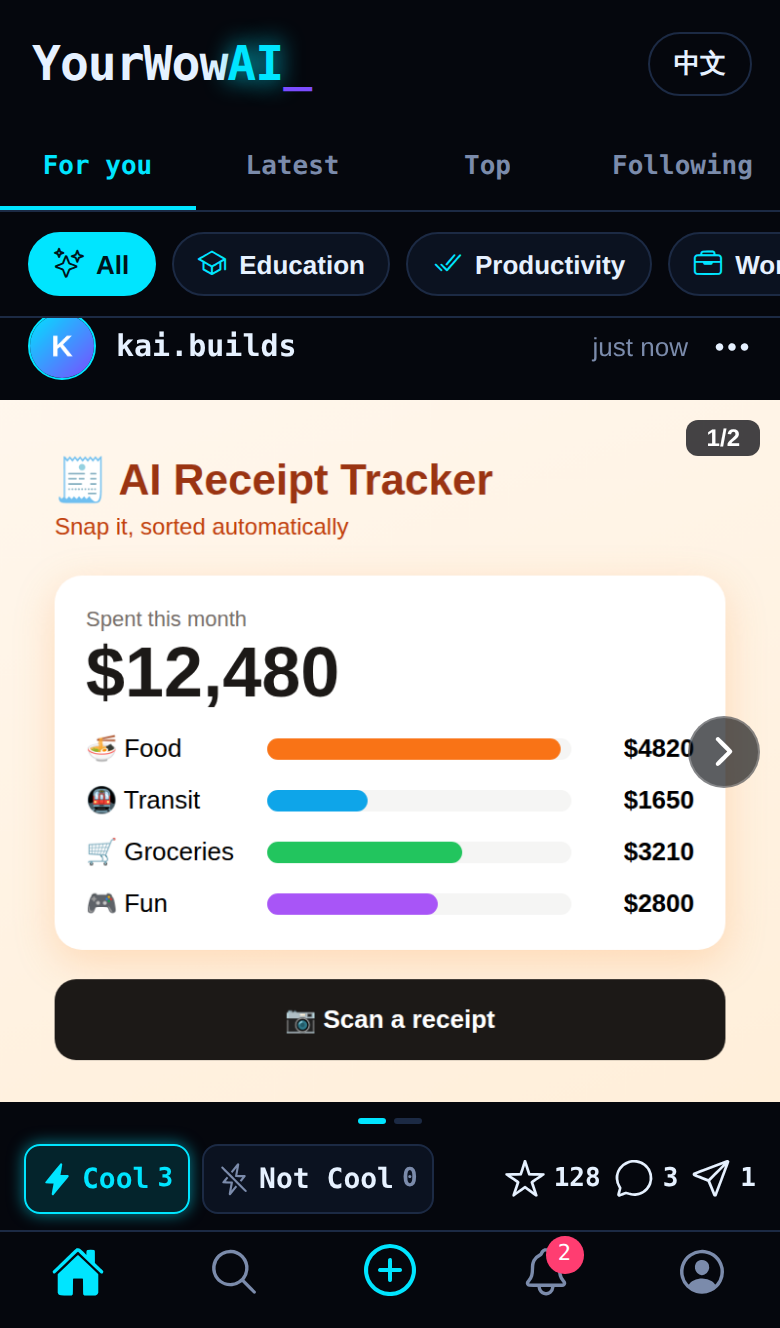
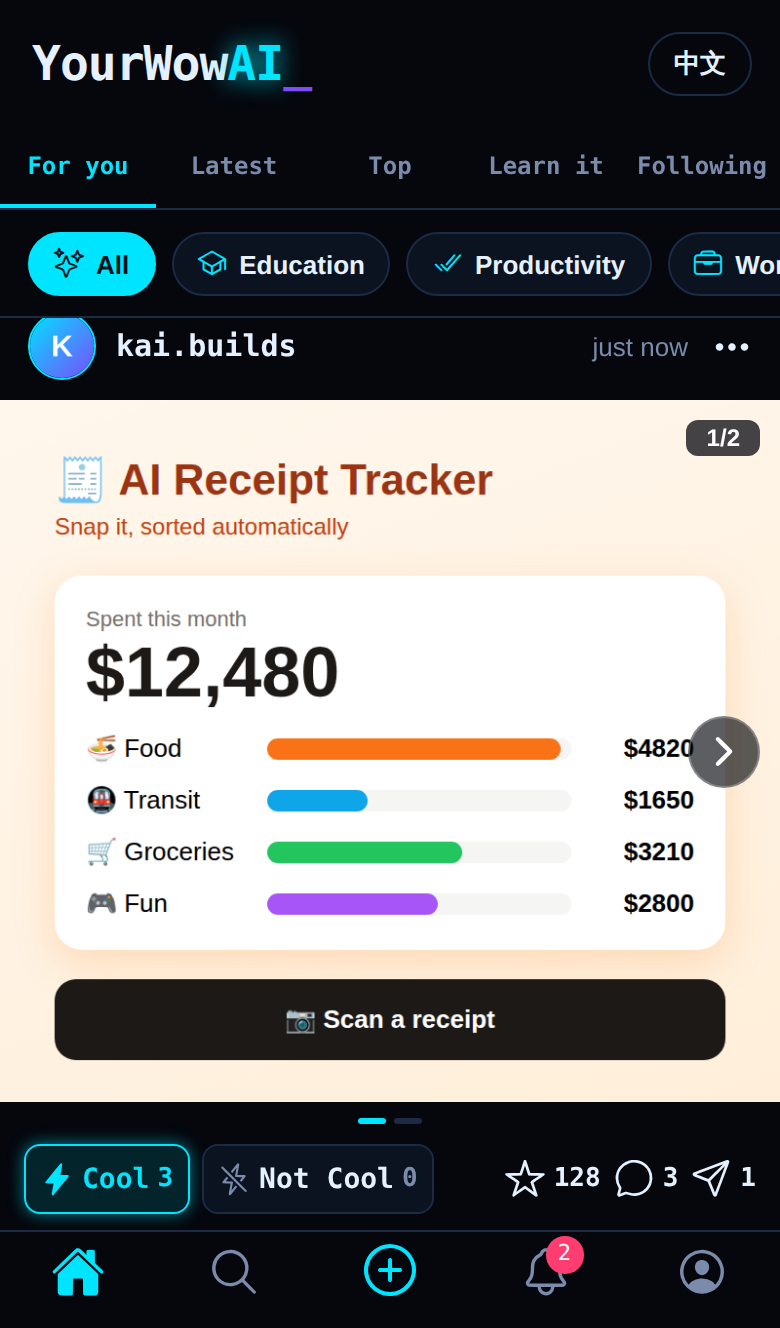
Show the Learn it tab in the feed screenshots
The hero and gallery feed screens now show all five home tabs,
including Learn it.

Claude-Session: https://claude.ai/code/session_01CvZTPupud6WvANmPo8zCjy

diff --git a/index.html b/index.html
@@ -62,7 +62,7 @@
       <svg class="sparkle" width="14" height="14" viewBox="0 0 24 24" aria-hidden="true" style="bottom: 36px; right: 34px;"><path d="M12 2l2.2 7.8L22 12l-7.8 2.2L12 22l-2.2-7.8L2 12l7.8-2.2z" fill="#7c4dff"></path></svg>
       <svg class="sparkle" width="10" height="10" viewBox="0 0 24 24" aria-hidden="true" style="top: 40%; right: 28px;"><circle cx="12" cy="12" r="6" fill="#ffffff" opacity="0.6"></circle></svg>
       <div class="phone">
-        <img src="assets/screens/en/feed.png?v=20261030" width="780" height="1328" alt="YourWowAI feed: an AI receipt tracker shared by a user, with Cool and Not Cool buttons">
+        <img src="assets/screens/en/feed.png?v=20261104" width="780" height="1328" alt="YourWowAI feed: an AI receipt tracker shared by a user, with Cool and Not Cool buttons">
       </div>
     </div>
   </div>
@@ -159,7 +159,7 @@
       <p>Real app screens. The app is available in English and Traditional Chinese.</p>
     </div>
     <div class="gallery" tabindex="0" aria-label="App screenshots, scroll sideways">
-      <figure><div class="phone"><img src="assets/screens/en/feed.png?v=20261030" width="780" height="1328" loading="lazy" alt="Feed with Cool and Not Cool buttons"></div><figcaption>Your work, shared</figcaption></figure>
+      <figure><div class="phone"><img src="assets/screens/en/feed.png?v=20261104" width="780" height="1328" loading="lazy" alt="Feed with Cool and Not Cool buttons"></div><figcaption>Your work, shared</figcaption></figure>
       <figure><div class="phone"><img src="assets/screens/en/post.png?v=20261030" width="780" height="1328" loading="lazy" alt="Post page with AI tool tags, AI tutor, Try it and Learn it buttons, GitHub stars and comments"></div><figcaption>Comments and feedback</figcaption></figure>
       <figure><div class="phone"><img src="assets/screens/en/learn.png?v=20261030" width="780" height="1328" loading="lazy" alt="Learn it page with a free preview video, a locked full tutorial that is free during beta, and the AI tutor"></div><figcaption>Learn how it was built</figcaption></figure>
       <figure><div class="phone"><img src="assets/screens/en/learn-tab.png?v=20261104" width="780" height="1328" loading="lazy" alt="Home screen on the Learn it tab, showing only posts that come with a tutorial, with category filters"></div><figcaption>Every post with a tutorial</figcaption></figure>

diff --git a/zh/index.html b/zh/index.html
@@ -67,7 +67,7 @@
       <svg class="sparkle" width="14" height="14" viewBox="0 0 24 24" aria-hidden="true" style="bottom: 36px; right: 34px;"><path d="M12 2l2.2 7.8L22 12l-7.8 2.2L12 22l-2.2-7.8L2 12l7.8-2.2z" fill="#7c4dff"></path></svg>
       <svg class="sparkle" width="10" height="10" viewBox="0 0 24 24" aria-hidden="true" style="top: 40%; right: 28px;"><circle cx="12" cy="12" r="6" fill="#ffffff" opacity="0.6"></circle></svg>
       <div class="phone">
-        <img src="../assets/screens/feed.png?v=20261030" width="780" height="1328" alt="YourWowAI 動態牆：阿凱分享的「AI 發票記帳」，下方有 Cool 和 Not Cool 按鈕">
+        <img src="../assets/screens/feed.png?v=20261104" width="780" height="1328" alt="YourWowAI 動態牆：阿凱分享的「AI 發票記帳」，下方有 Cool 和 Not Cool 按鈕">
       </div>
     </div>
   </div>
@@ -167,7 +167,7 @@
       <p>真實的 App 畫面。</p>
     </div>
     <div class="gallery" tabindex="0" aria-label="App 畫面截圖，可以左右捲動">
-      <figure><div class="phone"><img src="../assets/screens/feed.png?v=20261030" width="780" height="1328" loading="lazy" alt="動態牆與 Cool 按鈕"></div><figcaption>分享出去的作品</figcaption></figure>
+      <figure><div class="phone"><img src="../assets/screens/feed.png?v=20261104" width="780" height="1328" loading="lazy" alt="動態牆與 Cool 按鈕"></div><figcaption>分享出去的作品</figcaption></figure>
       <figure><div class="phone"><img src="../assets/screens/post.png?v=20261030" width="780" height="1328" loading="lazy" alt="貼文頁：AI 工具標籤、AI 學習助教、試用工具與看教學按鈕、GitHub 星星數與留言"></div><figcaption>收到留言與回饋</figcaption></figure>
       <figure><div class="phone"><img src="../assets/screens/learn.png?v=20261030" width="780" height="1328" loading="lazy" alt="Learn it 教學頁：免費試看影片、Beta 期間免費解鎖的完整教學與 AI 學習助教"></div><figcaption>學會怎麼做出來</figcaption></figure>
       <figure><div class="phone"><img src="../assets/screens/learn-tab.png?v=20261104" width="780" height="1328" loading="lazy" alt="首頁的 Learn it 分頁：只列出有附教學的作品，可以按領域篩選"></div><figcaption>有教學的作品都在這</figcaption></figure>
